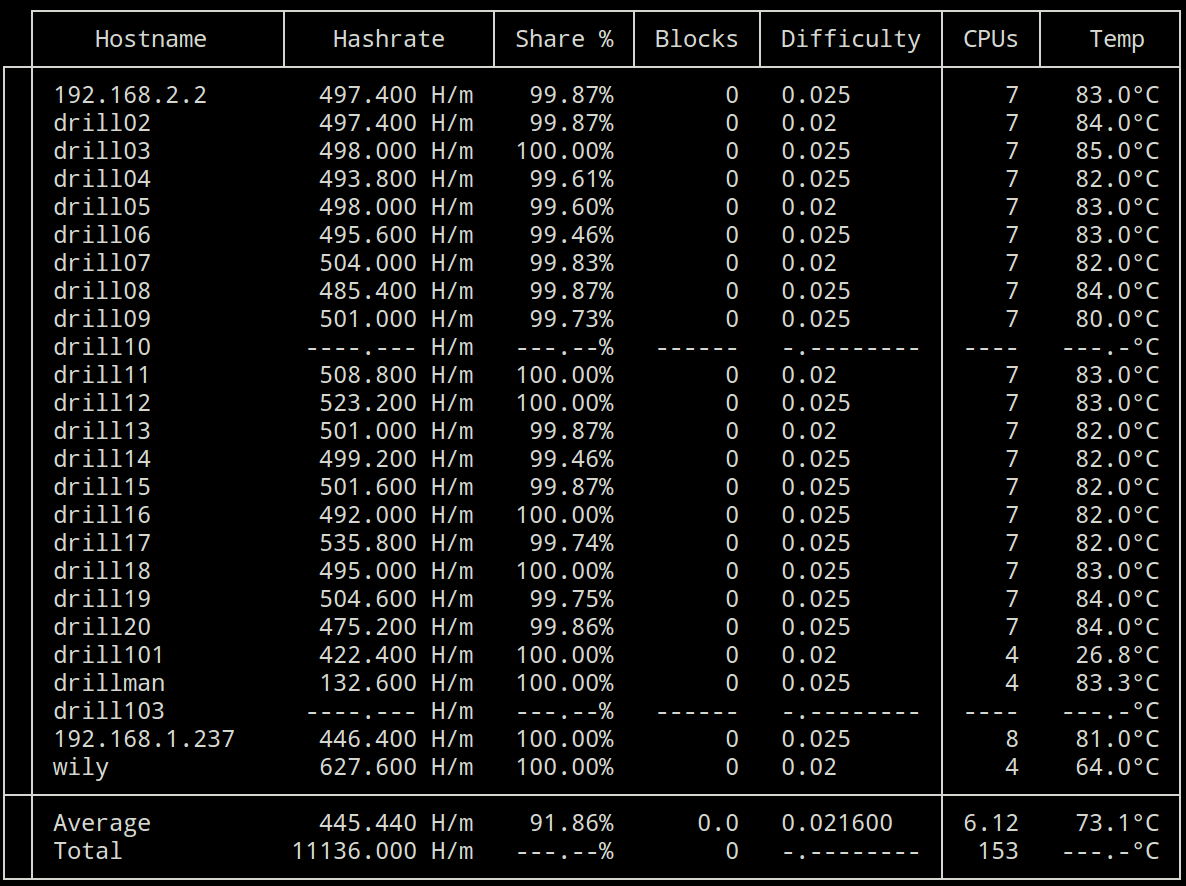
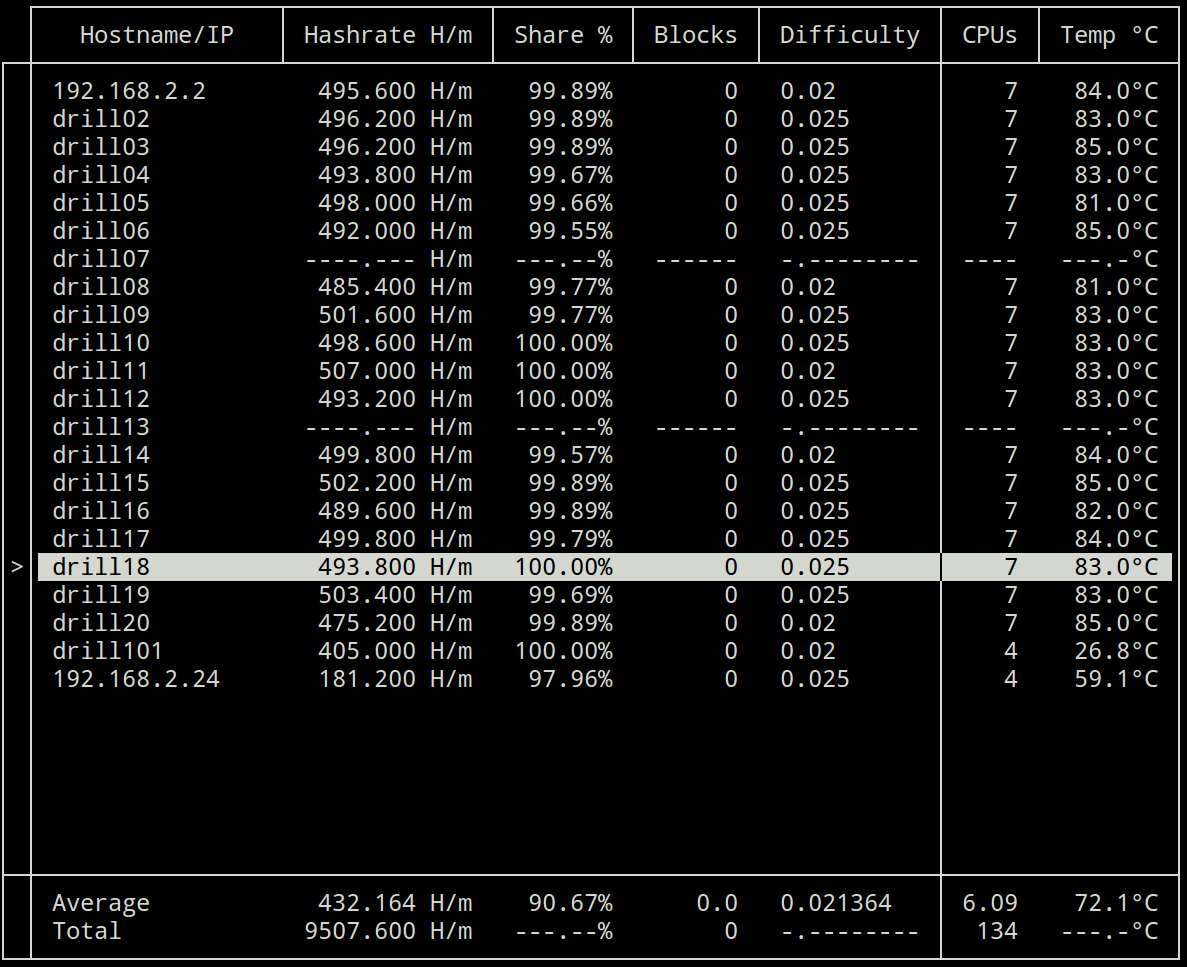
monitor.py: added host highlighting feature.

Changed region(s): [[0.0, 0.0, 0.9983, 1.0], [0.8423, 0.7314, 0.8735, 0.7923]]

diff --git a/monitor.py b/monitor.py
@@ -21,6 +21,7 @@ from curses import wrapper
 from pathlib import Path
 
 
+
 #! Thread variables
 threads = []
 kill_threads = threading.Event()
@@ -29,9 +30,7 @@ kill_threads = threading.Event()
 context = zmq.Context()
 zmqsockets = []
 
-
 #! Display varaibles
-input_thread = threading.Thread()
 stdscr = curses.initscr()
 hosts = []
 statstrs = []
@@ -51,7 +50,6 @@ def init_display():
 	stdscr.nodelay(True)
 	curses.curs_set(0)
 	stdscr.clear()
-
 
 	for host in hosts:
 		string = "{0:<15}   ----.--- H/m   ---.--%   ------   -.-------- │ ----   ---.-°C".format(host)
@@ -82,23 +80,24 @@ def init_zmqsockets():
 	return
 
 
-#! Create signal handler
+#! Interrupt signal handler
 def signal_handler(signal, frame):
 	kill_program()
 
 
 #! Kill program
 def kill_program():
-	#! Kill Threads
-	kill_threads.set()
-	for t in threads:
-		t.join()
-	
 	#! Kill curses stuff
 	curses.nocbreak()
 	stdscr.keypad(False)
 	curses.echo()
 	curses.endwin()
+	
+	#! Kill Threads
+	kill_threads.set()
+	print("Killing threads...")
+	for t in threads:
+		t.join()
 
 	#! Kill ZMQ stuff
 	for zmqsocket in zmqsockets:
@@ -106,15 +105,15 @@ def kill_program():
 	context.term()
 
 	sys.exit()
+	return
 
 
 #! Process messages from a zmqsocket
 def process_zmqmsg(stop_event, zmqsocket, host):
 	socket = zmqsocket
-	timeout = 0
 	
 	while not stop_event.is_set():
-		time.sleep(0.5)
+		time.sleep(1)
 
 		socket.send_string("summary")
 		msg = socket.recv_string()
@@ -177,6 +176,63 @@ def get_totals_avgs():
 	return (total_str, avg_str)
 	
 
+#! The display and user input loop
+def run_display_user_input():
+	#! Screen info
+	(term_height,term_width) = stdscr.getmaxyx()
+	hl_host = 2
+	hosts_len = len(hosts)
+
+	#! Print header information
+	stdscr.addstr(0,0,      "  ┌─────────────────┬──────────────┬─────────┬────────┬────────────┬──────┬─────────┐")
+	stdscr.addstr(1,0,      "  │   Hostname/IP   │ Hashrate H/m │ Share % │ Blocks │ Difficulty │ CPUs │ Temp °C │")
+	stdscr.addstr(2,0,      "┌─┼─────────────────┴──────────────┴─────────┴────────┴────────────┼──────┴─────────┤")
+	while True:
+		i = 3
+		for string in statstrs:
+			#! Print host strings
+			if i == (hl_host + 1): #! Start of display offset
+				stdscr.addstr(i,0,"│>│")
+				stdscr.addstr(" {0} ".format(string), curses.A_REVERSE)
+				stdscr.addstr("│")
+			else:
+				stdscr.addstr(i,0,"│ │ {0} │".format(string))
+
+			stdscr.clrtoeol()
+			i += 1
+
+		#! Print empty lines to fill the terminal
+		for b in range(i,term_height):
+			stdscr.addstr(b,0,          "│ │                                                                │                │")
+
+		#! Calculate totals and averages
+		(total_str,avg_str) = get_totals_avgs()
+		stdscr.addstr(term_height-4,0, "├─┼────────────────────────────────────────────────────────────────┼────────────────┤")
+		stdscr.addstr(term_height-3,0, "│ │ {0} │".format(avg_str))
+		stdscr.addstr(term_height-2,0, "│ │ {0} │".format(total_str))
+		stdscr.addstr(term_height-1,0, "└─┴────────────────────────────────────────────────────────────────┴────────────────┘")
+
+		#! Get user input
+		c = stdscr.getch()  #! Calls stdscr.refresh()
+		if c == curses.KEY_DOWN:
+			hl_host += 1 if hl_host <= hosts_len else 0
+		elif c == curses.KEY_UP:
+			hl_host -= 1 if hl_host > 2 else 0
+		elif c == ord('q'):
+			break
+
+		#! Negligable refresh lag while
+		#  keeping CPU usage down
+		#  (for arrowing up and down)
+		#! I want to use a keyboard event
+		#  listener, but I can't find an
+		#  implementation that works over
+		#  ssh
+		time.sleep(0.03)
+
+	return
+
+	
 #! Main function
 def main(stdscr):
 	kill_threads.clear()
@@ -189,7 +245,6 @@ def main(stdscr):
 
 	#! Initialize
 	init_display()
-	(term_height,term_width) = stdscr.getmaxyx()
 	init_lists()
 	init_zmqsockets()
 	signal.signal(signal.SIGINT, signal_handler)
@@ -201,30 +256,10 @@ def main(stdscr):
 		threads.append(t)
 		t.start()
 
-	stdscr.addstr(0,0,      "  ┌─────────────────┬──────────────┬─────────┬────────┬────────────┬──────┬─────────┐")
-	stdscr.addstr(1,0,      "  │   Hostname/IP   │ Hashrate H/m │ Share % │ Blocks │ Difficulty │ CPUs │ Temp °C │")
-	stdscr.addstr(2,0,      "┌─┼─────────────────┴──────────────┴─────────┴────────┴────────────┼──────┴─────────┤")
-	while True:
-		i = 3
-		for string in statstrs:
-			stdscr.addstr(i,0,"│ │ {0} │".format(string))
-			stdscr.clrtoeol()
-			i += 1
-		for b in range(i,term_height):
-			stdscr.addstr(b,0,          "│ │                                                                │                │")
+	#! Run display and user input loop
+	run_display_user_input()
 
-
-		(total_str,avg_str) = get_totals_avgs()
-
-		stdscr.addstr(term_height-4,0, "├─┼────────────────────────────────────────────────────────────────┼────────────────┤")
-		stdscr.addstr(term_height-3,0, "│ │ {0} │".format(avg_str))
-		stdscr.addstr(term_height-2,0, "│ │ {0} │".format(total_str))
-		stdscr.addstr(term_height-1,0, "└─┴────────────────────────────────────────────────────────────────┴────────────────┘")
-
-		c = stdscr.getch()  #! Calls stdscr.refresh()
-		if c == ord('q'):
-			break
-		time.sleep(0.5)
+	#! Kill the program
 	kill_program()
 	return
 
